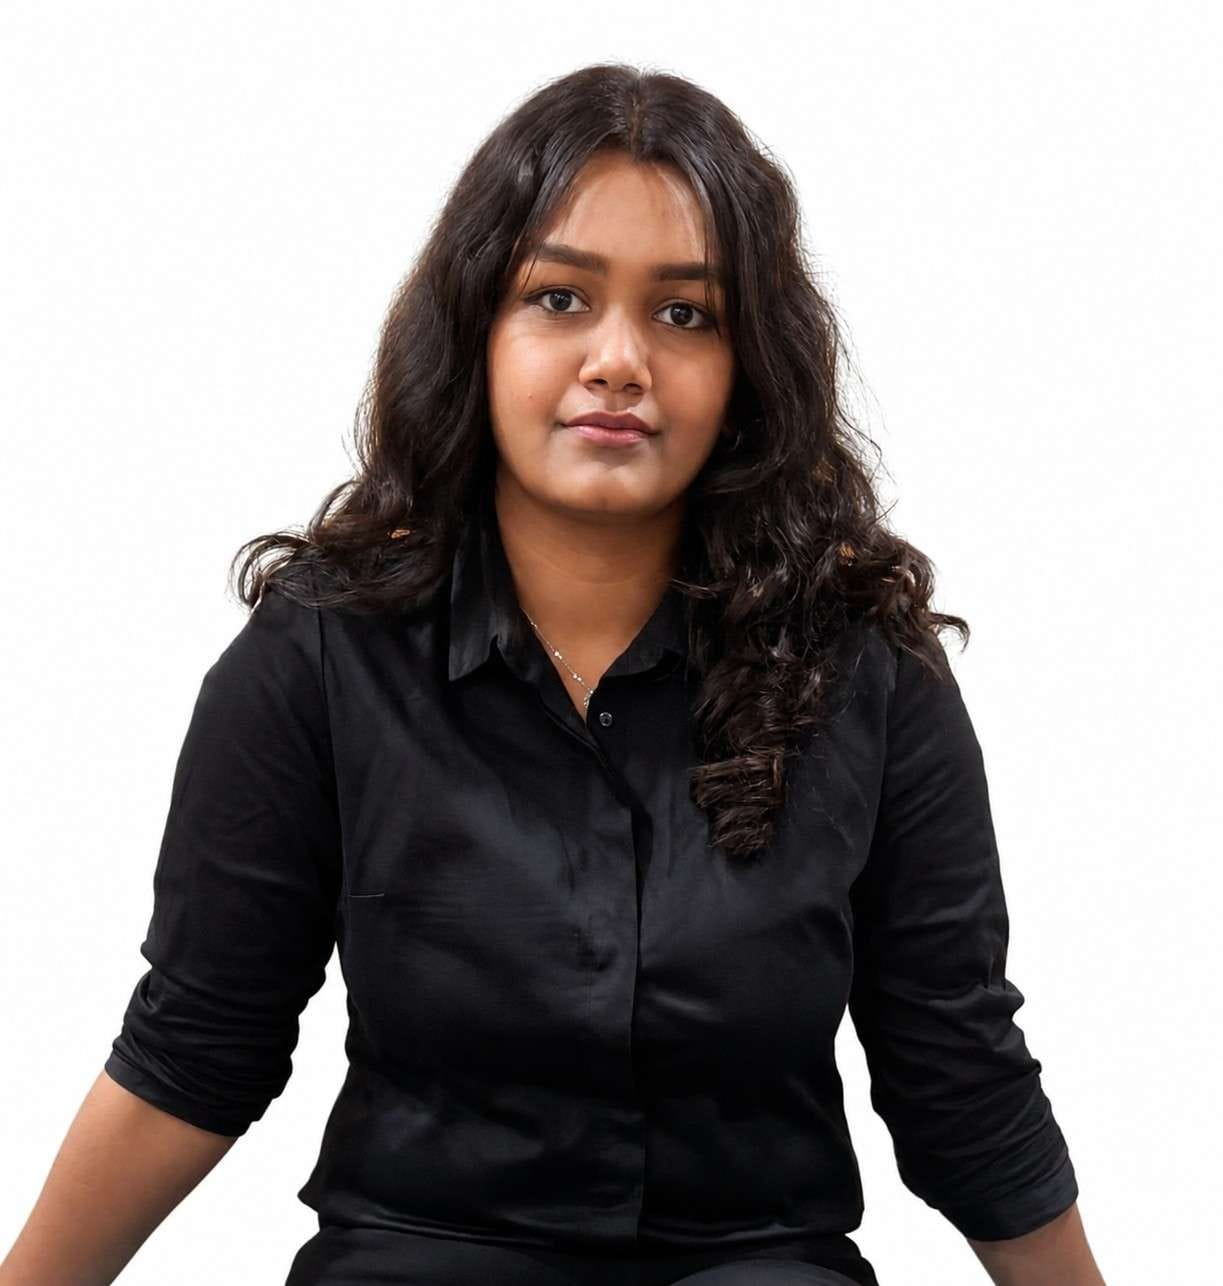
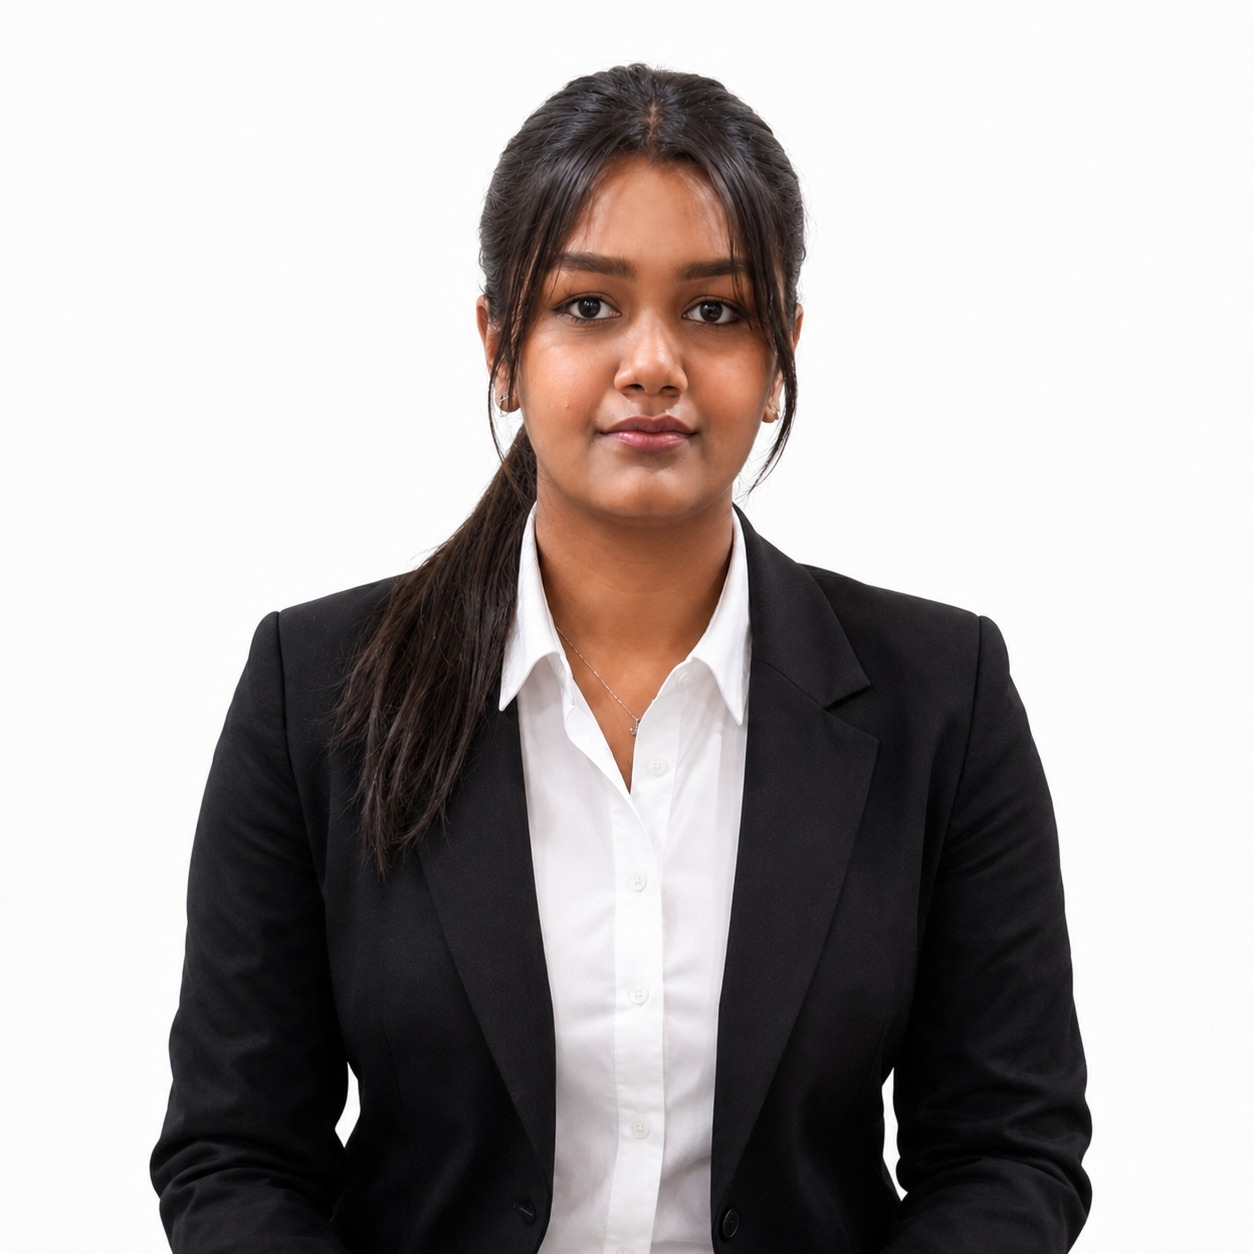
Complete AUREX26 website and Devfolio integration

diff --git a/src/components/Team.jsx b/src/components/Team.jsx
@@ -39,7 +39,7 @@ const Team = () => {
   return (
     <section className={`team-section section-padding bg-alt ${isVisible ? 'is-visible' : ''}`} id="team" ref={sectionRef}>
       <div className="container">
-        
+
         {/* DIRECTOR */}
         <div className="team-group animate-on-scroll fade-up delay-100">
           <h3 className="team-group-title">CHIEF PATRON</h3>
@@ -87,7 +87,7 @@ const Team = () => {
             </div>
             <div className="team-card card-coordinator">
               <div className="img-container">
-                <img src="/team/murugaswaminathan.jpeg" alt="Murugaswaminathan" />
+                <img src="/team/murugaswaminathan.png" alt="Murugaswaminathan" />
               </div>
               <div className="team-info">
                 <h3 className="team-name">Murugaswaminathan</h3>
@@ -104,17 +104,17 @@ const Team = () => {
             <h2 className="section-title" style={{ fontSize: '2.5rem' }}>MEET THE TEAM</h2>
           </div>
           <div className="team-tier tier-organizers">
-          {organizers.map((org, index) => (
-            <div className="team-card card-organizer" key={index}>
-              <div className="img-container">
-                <img src={org.img} alt={org.name} />
+            {organizers.map((org, index) => (
+              <div className="team-card card-organizer" key={index}>
+                <div className="img-container">
+                  <img src={org.img} alt={org.name} />
+                </div>
+                <div className="team-info">
+                  <h3 className="team-name">{org.name}</h3>
+                  <p className="team-role">{org.role}</p>
+                </div>
               </div>
-              <div className="team-info">
-                <h3 className="team-name">{org.name}</h3>
-                <p className="team-role">{org.role}</p>
-              </div>
-            </div>
-          ))}
+            ))}
           </div>
         </div>
 

diff --git a/src/components/Navbar.jsx b/src/components/Navbar.jsx
@@ -1,5 +1,6 @@
 import React, { useState, useEffect } from 'react';
 import { Menu, X } from 'lucide-react';
+import DevfolioButton from './DevfolioButton';
 import './Navbar.css';
 
 const Navbar = () => {
@@ -69,7 +70,7 @@ const Navbar = () => {
         <div className="navbar-right">
           {/* Desktop Actions */}
           <div className="navbar-actions">
-            <a href="https://aurex26.devfolio.co/" target="_blank" rel="noopener noreferrer" className="btn btn-primary">Register Now</a>
+            <DevfolioButton />
           </div>
 
           {/* CICT Logo */}
@@ -98,7 +99,7 @@ const Navbar = () => {
             </a>
           ))}
         </nav>
-        <a href="https://aurex26.devfolio.co/" target="_blank" rel="noopener noreferrer" className="btn btn-primary text-center">Register Now</a>
+        <DevfolioButton />
       </div>
     </header>
   );

diff --git a/src/components/FAQ.jsx b/src/components/FAQ.jsx
@@ -1,5 +1,6 @@
 import React, { useState } from 'react';
 import { ChevronDown } from 'lucide-react';
+
 import './FAQ.css';
 
 const FAQItem = ({ question, answer, isOpen, onClick }) => {
@@ -188,10 +189,7 @@ const FAQ = () => {
               <strong>Participants should follow the official Aurex’26 website and Devfolio page for the latest announcements, detailed rules, problem statements, schedules and event-related information.</strong>
             </p>
             <div className="mt-4">
-              <p className="mb-2 font-medium">Have more questions?</p>
-              <a href={devfolioUrl} target="_blank" rel="noopener noreferrer" className="btn btn-primary">
-                Visit Devfolio →
-              </a>
+              <p className="mb-2 font-medium">Have more questions? Contact us.</p>
             </div>
           </div>
         </div>

diff --git a/src/components/DevfolioButton.jsx b/src/components/DevfolioButton.jsx
@@ -1,0 +1,22 @@
+import React, { useEffect } from "react";
+
+export default function DevfolioButton() {
+  useEffect(() => {
+    if (document.querySelector('script[src="https://apply.devfolio.co/v2/sdk.js"]')) return;
+
+    const script = document.createElement("script");
+    script.src = "https://apply.devfolio.co/v2/sdk.js";
+    script.async = true;
+    script.defer = true;
+    document.body.appendChild(script);
+  }, []);
+
+  return (
+    <div
+      className="apply-button"
+      data-hackathon-slug="aurex26"
+      data-button-theme="light"
+      style={{ height: "44px", width: "312px" }}
+    />
+  );
+}

diff --git a/src/components/Hero.jsx b/src/components/Hero.jsx
@@ -1,5 +1,6 @@
 import React from 'react';
 import './Hero.css';
+import DevfolioButton from './DevfolioButton';
 
 const Hero = () => {
   return (
@@ -35,7 +36,7 @@ const Hero = () => {
         </p>
         
         <div className="hero-buttons animate-fade-in delay-500">
-          <a href="https://aurex26.devfolio.co/" target="_blank" rel="noopener noreferrer" className="btn btn-primary">Register Now</a>
+          <DevfolioButton />
           <a href="/Aurex26_Tracks_One_Per_Page%20(1).pdf" target="_blank" rel="noopener noreferrer" className="btn btn-outline">Explore Tracks</a>
         </div>
         

diff --git a/src/components/CTA.jsx b/src/components/CTA.jsx
@@ -10,7 +10,7 @@ const CTA = () => {
           Explore the six tracks and find the challenge that matches your idea.
         </p>
         <div className="animate-fade-in delay-200">
-          <a href="#" className="btn btn-primary">Explore Tracks →</a>
+          <a href="/Aurex26_Tracks_One_Per_Page%20(1).pdf" target="_blank" rel="noopener noreferrer" className="btn btn-primary">Explore Tracks →</a>
         </div>
       </div>
     </section>

diff --git a/src/components/Contact.jsx b/src/components/Contact.jsx
@@ -120,7 +120,7 @@ const Contact = () => {
           <h3 className="platform-sponsor-title">Platform Sponsor</h3>
           <img
             src="/devfolio-logo.svg"
-            alt="Devfolio"
+            alt="DEVFOLIO LOGO"
             className="platform-sponsor-logo"
             draggable="false"
           />

diff --git a/src/components/Hero.css b/src/components/Hero.css
@@ -119,8 +119,10 @@
 
 .hero-buttons {
   display: flex;
-  gap: 1.25rem;
+  gap: 1.5rem;
   margin-bottom: 5rem;
+  align-items: center;
+  justify-content: center;
 }
 
 .hero-buttons .btn {
